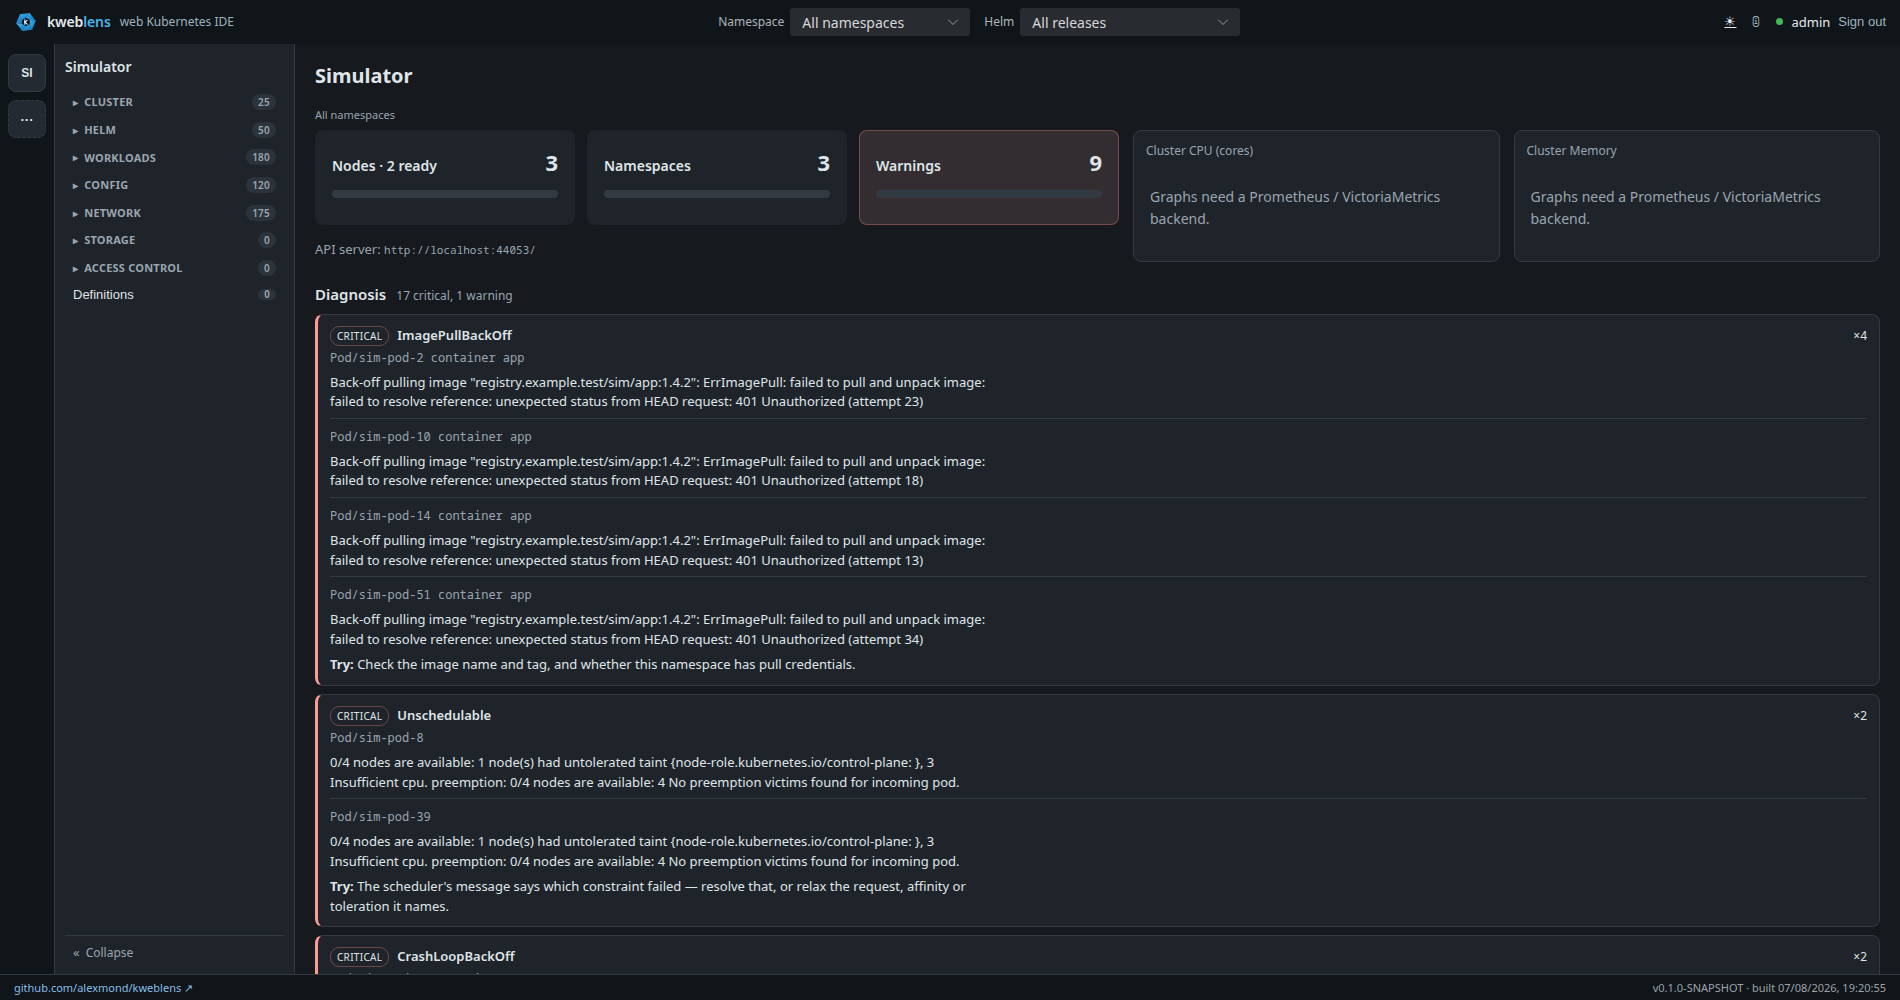
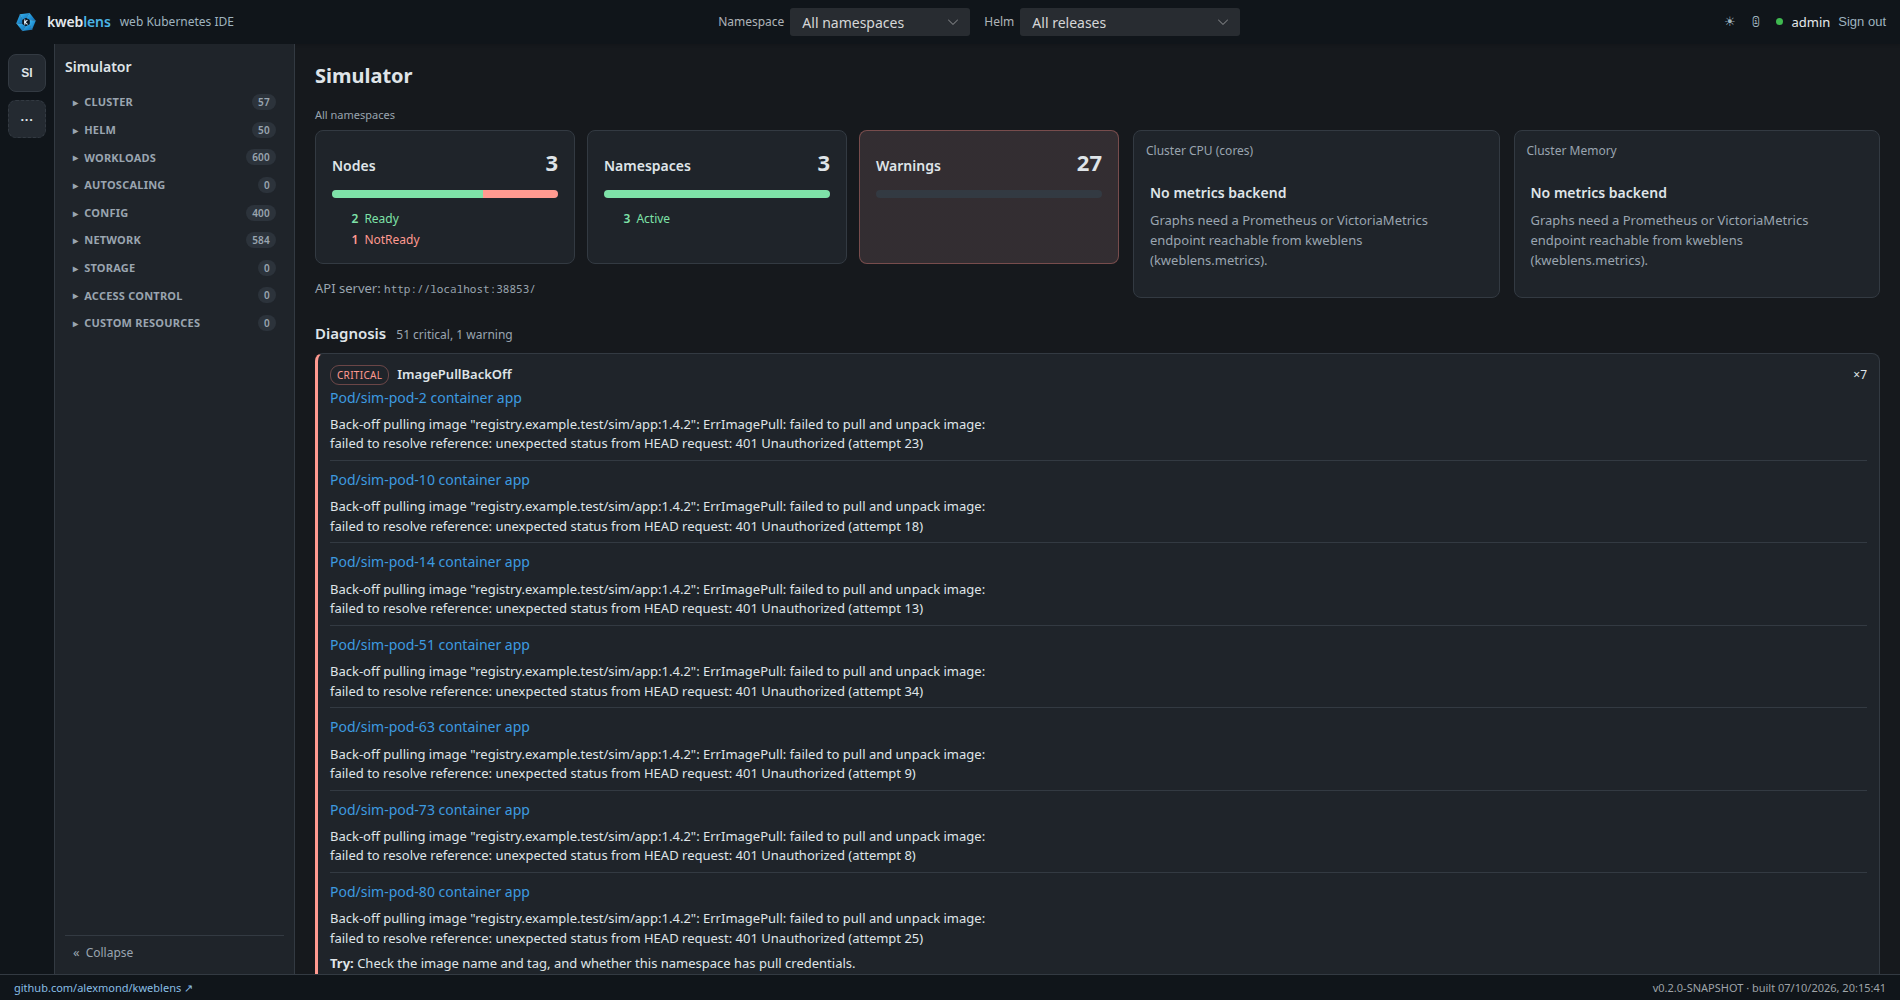
Show the product: nine screenshots, and the one page that had the only picture (#518)
kweblens is a UI project whose documentation had one image in it. 22 Antora
pages and ~5 800 lines of prose carried a single `image::`, on the index. The
README — the page GitHub shows first — had none at all across 347 lines.

Worse, two of the three committed images were referenced by NOTHING. They have
been in the repo since #310 and no page has ever pointed at them, so they were
weight with no reader. The check for that is one line and is now in the commit
that adds the rest.

And all three were STALE in a way that matters: their footer reads
`v0.1.0-SNAPSHOT`, and the diagnosis object references in them are plain text.
They predate 23d274c, which made those references links. A screenshot of a
feature as it was before the feature is worse than no screenshot, because
nothing on it says it is old.

So: nine images, each against the SIMULATOR at wide/dark, which is the existing
convention and the reason they can be committed at all — generated names, nobody's
infrastructure. Ten references across six pages, up from one, plus a README hero
and a four-image gallery. Every reference resolves and no image is orphaned.

ONE DOC WAS WRONG, not merely thin. `health-and-diagnostics.adoc` said a finding
carries "the object as `Kind/name`". That has been false since #516: a finding
carries `object` (a display string nothing parses, which omits the namespace and
may carry a container suffix) AND `target` (kind/namespace/name, or null when the
[…]

diff --git a/README.md b/README.md
@@ -8,6 +8,12 @@ manage Helm releases — and expose the same cluster view to AI assistants over 
 Because it runs as a server rather than on your laptop, the browser needs no kubeconfig, no
 `kubectl` and no local install.
 
+![The kweblens cluster overview](docs/modules/ROOT/images/cluster-overview.png)
+
+<sub>Every screenshot here is taken against kweblens's built-in **simulator**, not a real
+cluster — the names and addresses are generated. You can run the same thing with no cluster
+at all: see [the simulator](#no-cluster-use-the-built-in-simulator).</sub>
+
 > **Status: early — working, not yet production-ready.** The surfaces below are
 > implemented and used daily against real clusters.
 >
@@ -71,6 +77,17 @@ What none of that covers: the `apply` that actually writes is still
 `forceConflicts().serverSideApply()` with no `dryRun`, because that *is* the write. The preview
 is a separate request an operator can choose to run; nothing forces them to look at it first.
 See [the roadmap](docs/design/roadmap.md) for what is next.
+
+## Screenshots
+
+| | |
+|---|---|
+| ![Pods list](docs/modules/ROOT/images/resource-list.png) | ![Detail drawer](docs/modules/ROOT/images/pod-detail-drawer.png) |
+| **Resource lists are live.** The chips under the title are the `status:` filter vocabulary made clickable; the coloured squares are a pod's containers. | **The detail drawer.** `Controlled By`, `Service Account` and the other relations are resolved server-side, not guessed in the browser. |
+| ![YAML editor](docs/modules/ROOT/images/yaml-editor.png) | ![Workloads overview](docs/modules/ROOT/images/workloads-overview.png) |
+| **The YAML editor**, with completion and validation driven by the cluster's own OpenAPI v3 schema. *Review Changes* diffs your edit against what was loaded **and** against what a real `dryRun=All` says the cluster would store. | **Category overviews** name the objects that need attention rather than only counting them, and every state on a card is a link to that filtered list. |
+
+More, in context, in the [documentation](docs/modules/ROOT/pages/index.adoc).
 
 ## Stack
 
